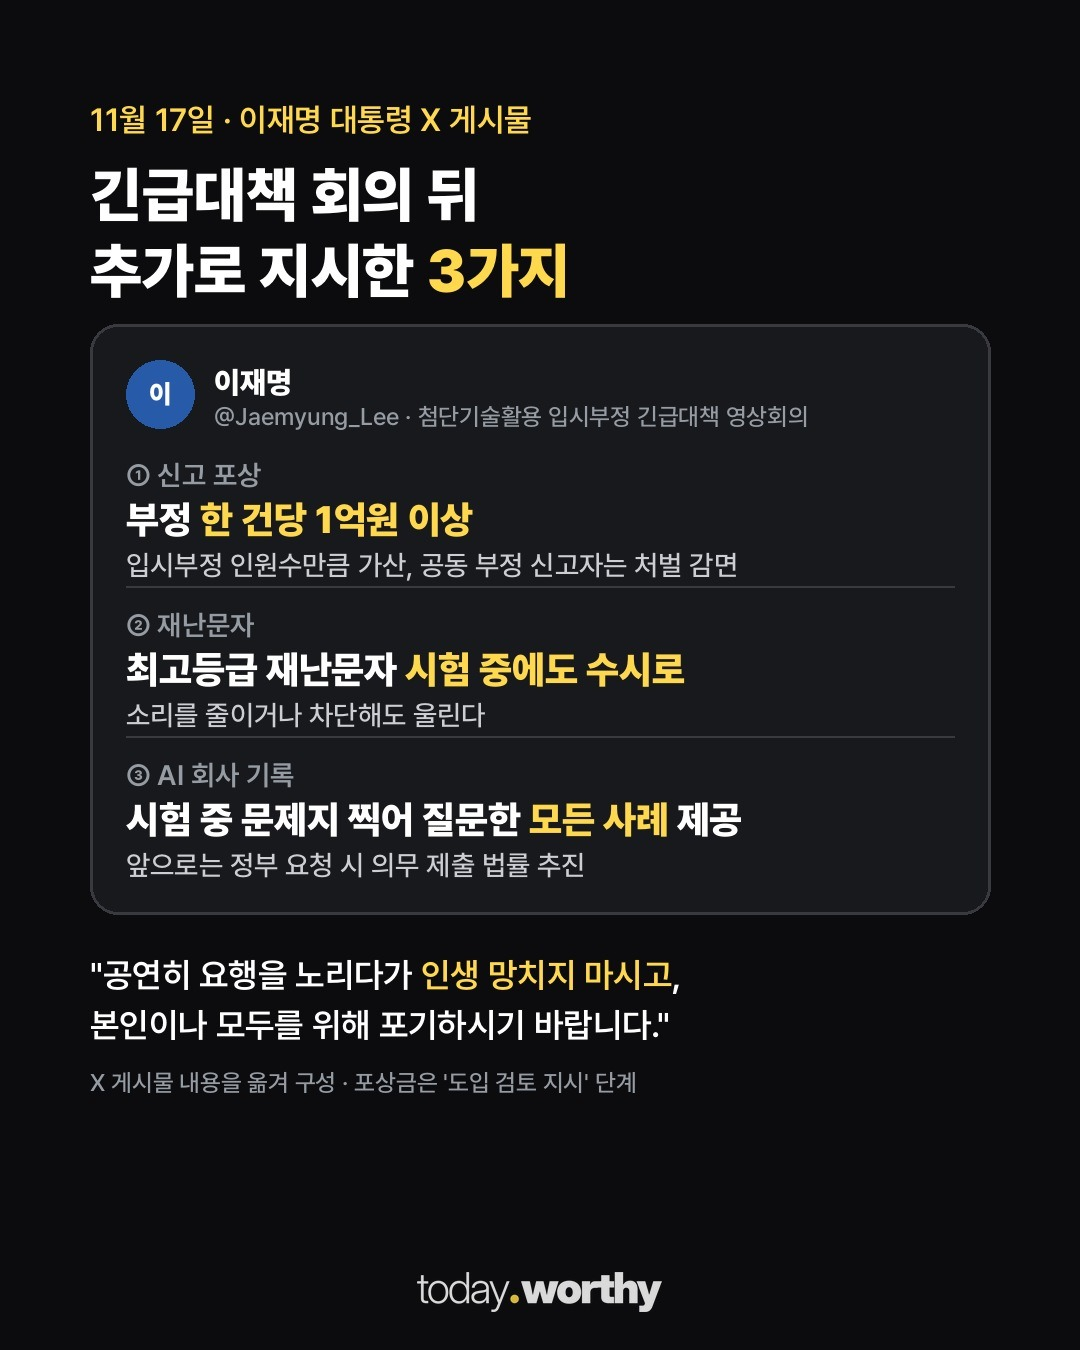
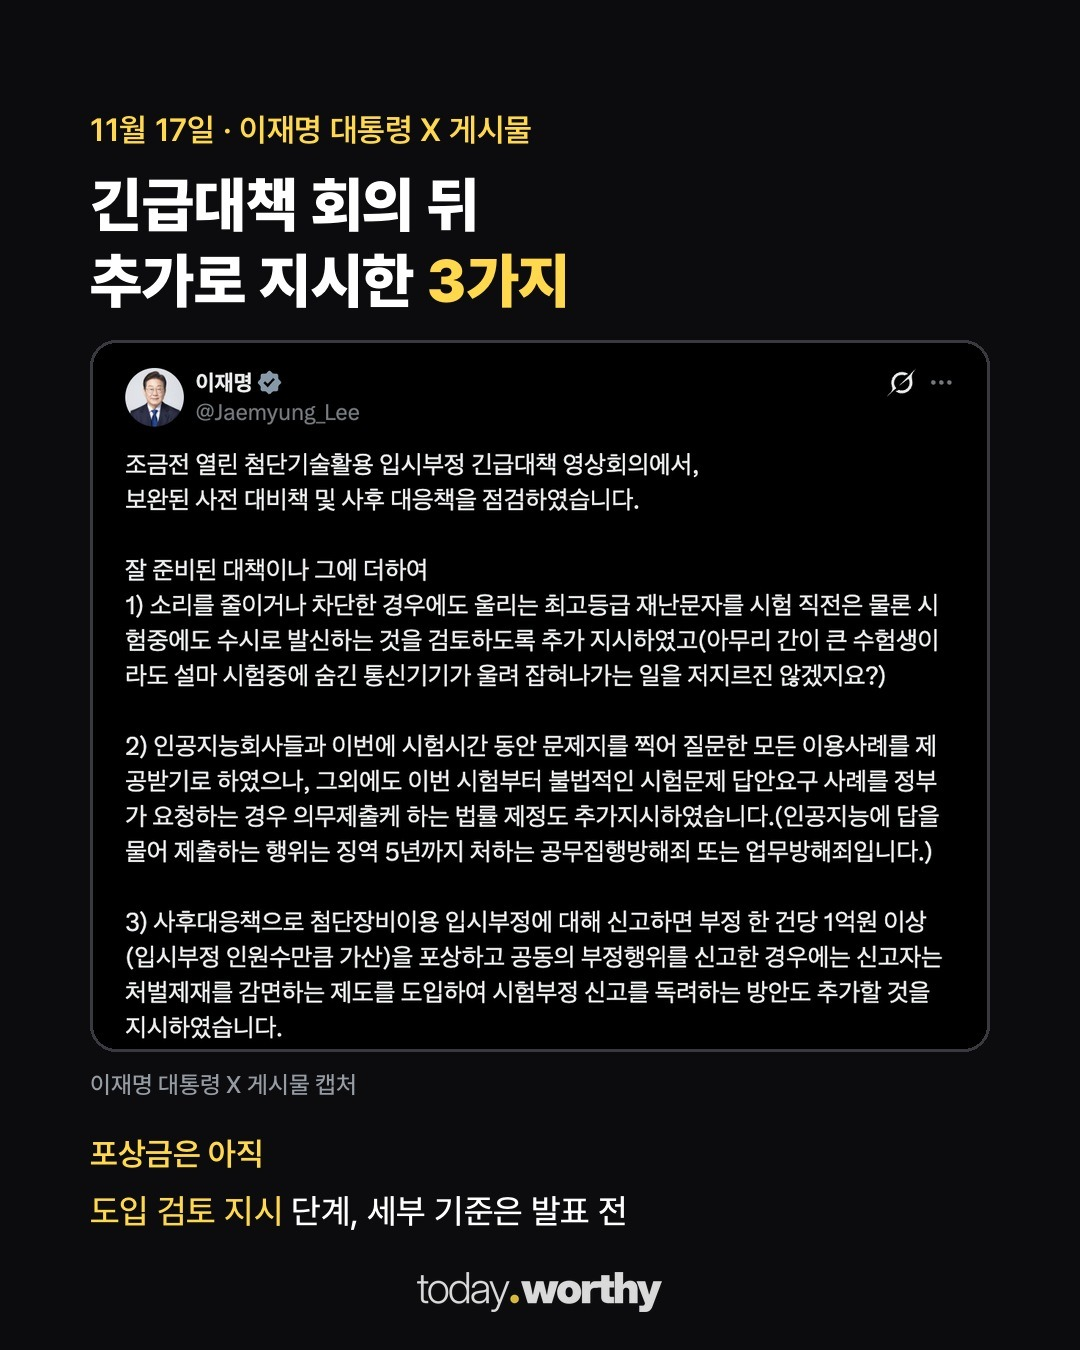
ljm 2장: 사용자 제공 트윗 캡처
Claude-Session: https://claude.ai/code/session_01FGsw5QnWxFUsnopcB1Czie

diff --git a/media/20261117-ljm/build_card.py b/media/20261117-ljm/build_card.py
@@ -29,7 +29,7 @@ y += h + 40
 for ln in ['"공연히 요행을 노리다가 \'인생 망치지 마시고\',', '본인이나 모두를 위해 포기하시기 바랍니다."']:
     rich(d, P, y, ln, F("Bold" if False else "SemiBold", 34)); y += 50
 d.text((P, y + 14), "X 게시물 내용을 옮겨 구성 · 포상금은 '도입 검토 지시' 단계", font=F("Medium", 24), fill=MU)
-logo(im); im.save(Path(__file__).parent / "cand" / "c02.jpg", quality=93); print("ok", y)
+logo(im); im.save(Path(__file__).parent / "cand" / "c02_rebuilt_unused.jpg", quality=93)  # 2장은 사용자 제공 트윗 캡처(cand/spec.json → scripts/post_cap_card.py); print("ok", y)
 # 표지 배경(사용자 지정): 왼쪽 대통령 사진, 오른쪽 수능 D-7 학원 사진(뉴스1) 나란히, 경계 페이드. 아래는 글자 자리로 어둡게.
 # D-7 사진 위쪽 '11월 12일(목)' 글씨는 이번 수능 날짜(19일)와 달라 잘라냄.
 from PIL import ImageFilter, ImageOps
